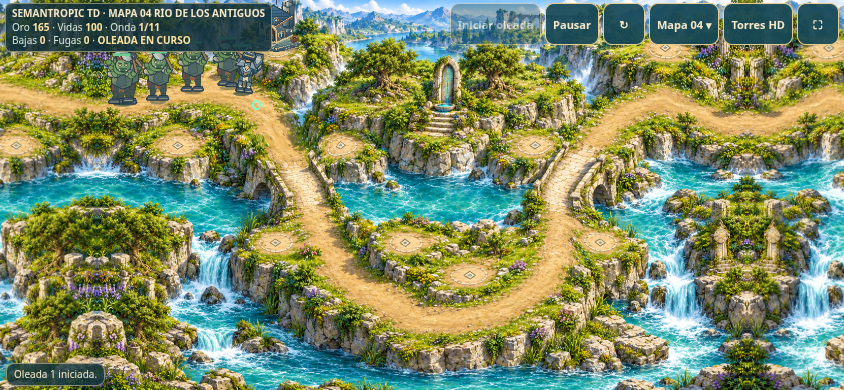
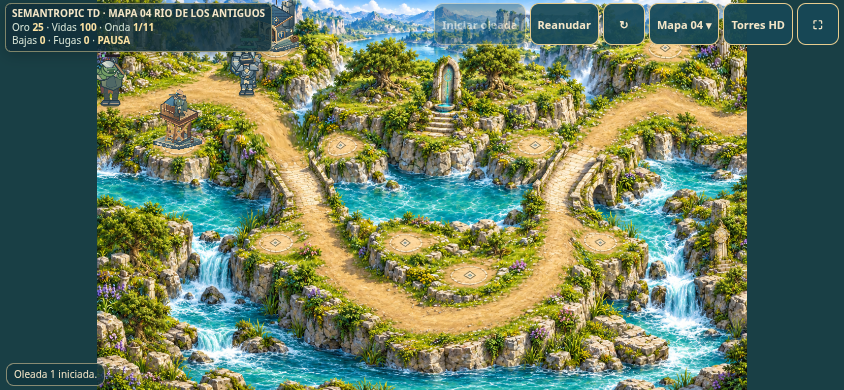
fix(m04): preserve frozen FIT artwork without mirrored false platforms

Changed region(s): [[0.0, 0.0, 0.3081, 1.0], [0.8626, 0.0, 1.0, 1.0], [0.4929, 0.0, 0.6777, 0.1231]]

diff --git a/docs/blocks/m04-game01/ACTA.md b/docs/blocks/m04-game01/ACTA.md
@@ -21,7 +21,7 @@ Rama: `feature/m04-game01-playable`. PR/commit final y publicación: ver el PR d
 2. Escena común: aserción, denominador de plataforma y DTO T09 usan cantidad canónica; importar el adaptador M04 no autoarranca M02.
 3. T09: acepta `socket.count` explícito y validado; por defecto mantiene ocho para consumidores anteriores. La novena plataforma necesita su menú real.
 4. CORE base inicializa armadura desde ficha (M03 sigue 0); extensión de Infantería ofrece hook de apoyo solo implementado por M04.
-5. Selector y viewport aceptan M04; misma ruta LIVE y panorama FIT existente, sin mover coordenadas. No hay rediseño de HUD.
+5. Selector y viewport aceptan M04; misma ruta LIVE y FIT existente, sin mover coordenadas. M04 conserva márgenes neutros como su preview aprobado: no reflejar su pintura unificada en las bandas laterales, lo que duplicaría falsos pads y monumentos. M01–M03 mantienen su panorama habitual. No hay rediseño de HUD.
 6. Guards de los bloques artísticos anteriores: sus freezes de runtime están superados exclusivamente por esta orden funcional; `authorized-runtime-blobs.json` enumera antes/después de cada archivo compartido autorizado. Los locks del arte y datos originales permanecen. Las actas históricas no se reescriben.
 
 Fuera de alcance: rediseño de escenario, nuevas familias/niveles, otras dificultades, audio, balance global, IA no requerida por M04 y M05–M10. M01/M02 conservan sus cores; M03 usa defaults equivalentes. Geometría, campaña y Canvas protegidos por hashes en `protected-blobs.json`.
